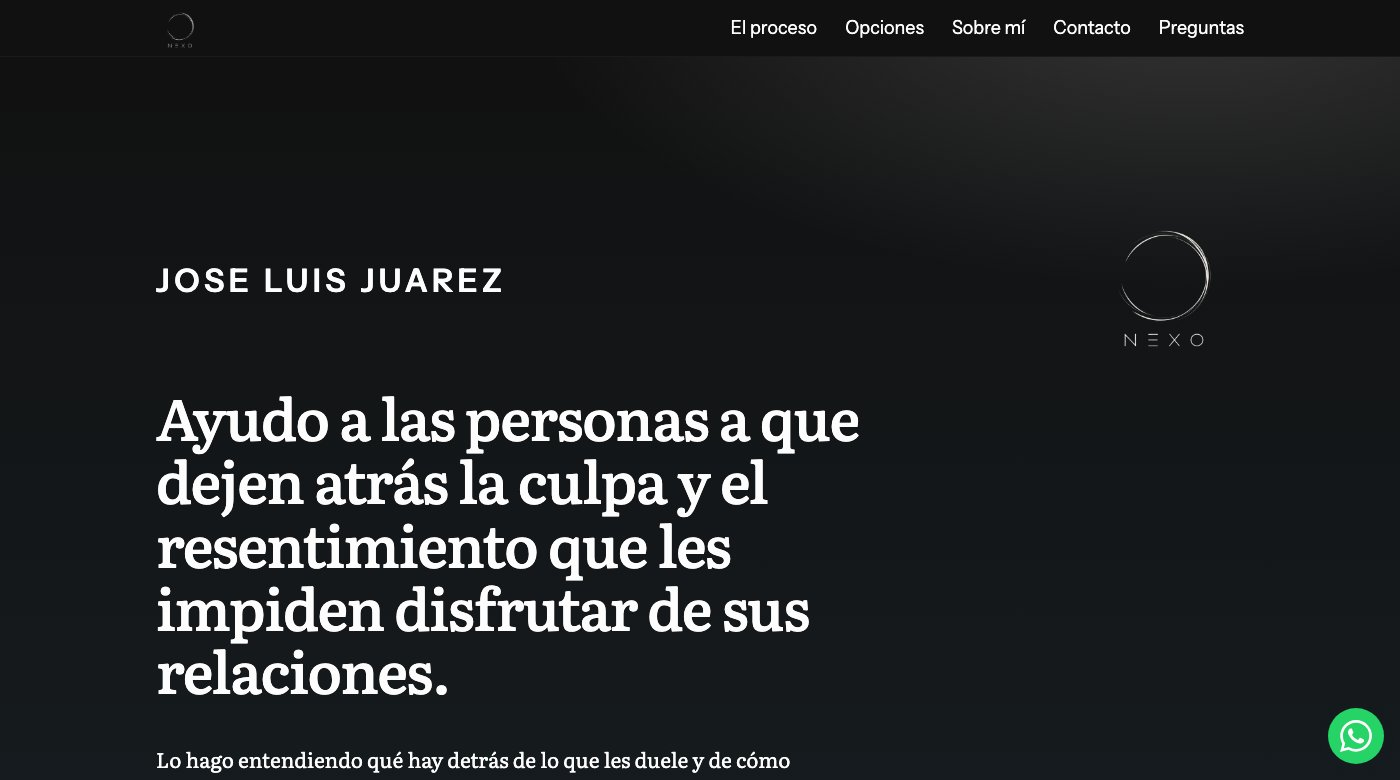
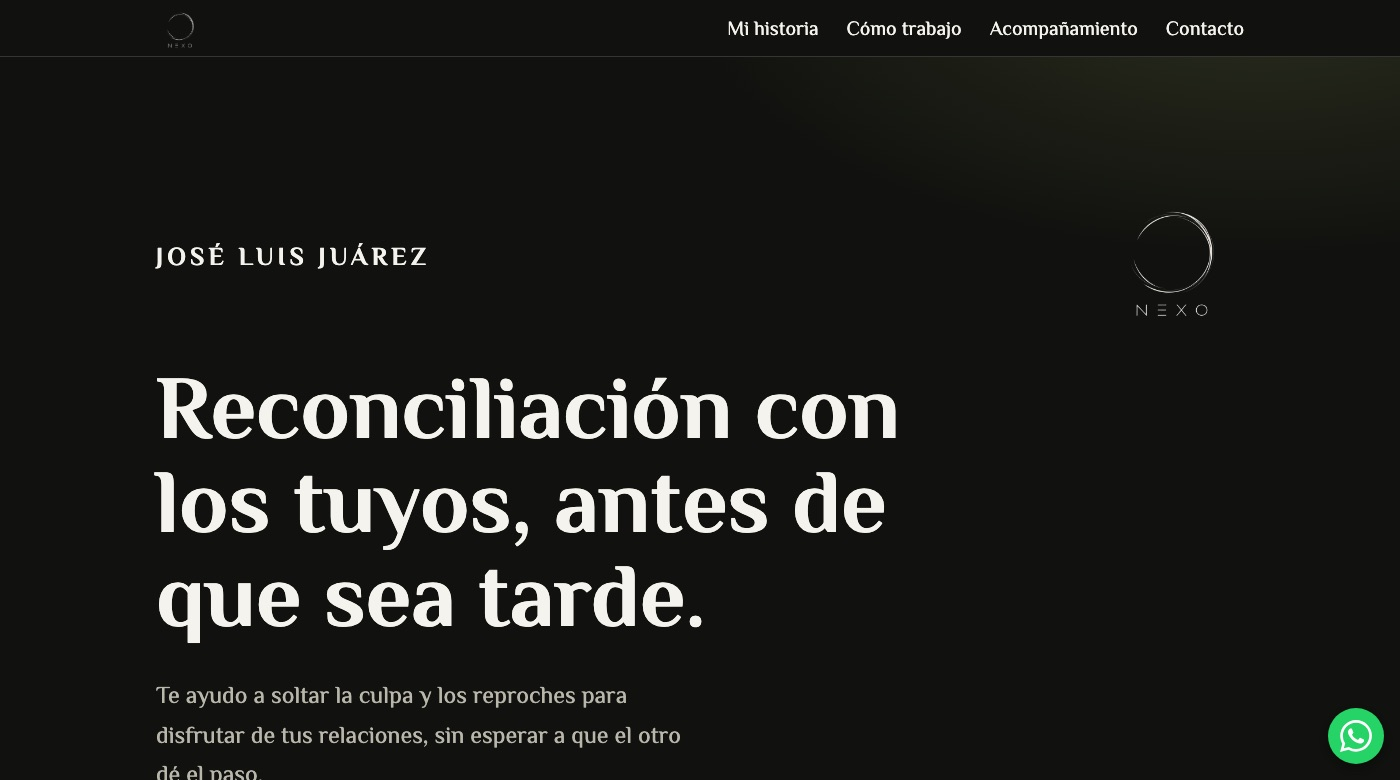
Web de NEXO: capturas nuevas (escritorio y móvil) y ficha al día con la web actual
La web pasó de tres opciones de precio a una sesión individual y quitó
las preguntas frecuentes: se corrigen esas frases, se añaden las
secciones nuevas y una fila de tres pantallas de móvil.

diff --git a/proyectos/web-nexo.html b/proyectos/web-nexo.html
@@ -105,8 +105,8 @@
       <h2>Qué es</h2>
       <ul class="feature-list">
         <li>Una página estática y rápida, pensada para leerse en el móvil</li>
-        <li>Tres opciones de sesiones con su precio y un botón de contacto directo por WhatsApp en cada una</li>
-        <li>Preguntas frecuentes, marcadas para que Google pueda mostrarlas</li>
+        <li>Una sesión individual con su precio claro y contacto directo por WhatsApp, sin formularios</li>
+        <li>El método en cuatro pasos, que se iluminan según se baja por la página</li>
         <li>Sin cookies, sin analítica y sin recursos de terceros</li>
       </ul>
     </section>
@@ -188,7 +188,7 @@
             </div>
             <div class="decision" data-id="whatsapp">
               <dt>WhatsApp</dt>
-              <dd>Cada botón abre un chat con un mensaje ya escrito según la opción elegida. No hay formularios, así que la web no guarda datos de nadie.</dd>
+              <dd>Cada botón abre un chat con un primer mensaje ya escrito. No hay formularios, así que la web no guarda datos de nadie.</dd>
             </div>
           </dl>
         </div>
@@ -200,7 +200,7 @@
       <ul class="feature-list">
         <li><strong>Astro</strong> genera HTML estático; el único JavaScript es la animación de los cuatro pasos, y la página funciona sin él</li>
         <li><strong>Sin terceros:</strong> tipografías alojadas en la propia web, sin cookies ni analítica, y por eso sin banner</li>
-        <li><strong>Buscadores:</strong> mapa del sitio, URL canónica, etiquetas para compartir y datos estructurados de las preguntas frecuentes</li>
+        <li><strong>Buscadores:</strong> mapa del sitio, URL canónica y etiquetas para compartir</li>
         <li><strong>Animaciones:</strong> se desactivan si el sistema operativo lo pide</li>
         <li><strong>Seguridad revisada antes de publicar:</strong> sin secretos en el repositorio, HTTPS obligatorio y cabeceras que limitan qué puede cargar la página</li>
       </ul>
@@ -209,25 +209,39 @@
     <section class="ficha-seccion">
       <h2>Capturas</h2>
       <figure class="shot shot-ancha">
-        <img src="../img/web-nexo/inicio.jpg" alt="Portada de la web de NEXO: el nombre de Jose Luis, el logotipo y el titular «Ayudo a las personas a que dejen atrás la culpa y el resentimiento que les impiden disfrutar de sus relaciones.» sobre un fondo oscuro." width="1400" height="780" loading="lazy" decoding="async" />
+        <img src="../img/web-nexo/inicio.jpg" alt="Portada de la web de NEXO: el nombre de Jose Luis, el logotipo y el titular «Reconciliación con los tuyos, antes de que sea tarde.» sobre un fondo oscuro." width="1400" height="780" loading="lazy" decoding="async" />
         <figcaption>La portada: un titular, una frase y una única acción.</figcaption>
       </figure>
       <figure class="shot shot-ancha">
-        <img src="../img/web-nexo/proceso.jpg" alt="Sección del proceso: el título «NEXO», el lema «El espacio donde todo conecta.» y cuatro pasos numerados (visión, comprensión, responsabilidad, integración), cada uno con un símbolo animado a la derecha." width="1400" height="1654" loading="lazy" decoding="async" />
-        <figcaption>Los cuatro pasos del proceso se iluminan según se baja por la página.</figcaption>
+        <img src="../img/web-nexo/intentado.jpg" alt="Sección «Has probado a cambiar las cosas, pero sigues en el mismo sitio.»: cinco tarjetas con lo que el visitante ya ha intentado (esperar a que el otro cambie, ceder para evitar discusiones, esforzarse por agradar, intentar pasar página, ir a terapia por un problema concreto) y una frase de cierre." width="1400" height="1393" loading="lazy" decoding="async" />
+        <figcaption>Antes de hablar del método, la web reconoce lo que el visitante ya ha probado.</figcaption>
       </figure>
       <figure class="shot shot-ancha">
-        <img src="../img/web-nexo/opciones.jpg" alt="Tres tarjetas de precios: sesión individual, proceso de cuatro sesiones y proceso de ocho sesiones, cada una con su lista de lo que incluye y su botón." width="1400" height="1554" loading="lazy" decoding="async" />
-        <figcaption>Tres opciones con precio claro, y debajo una salida para quien no sabe cuál elegir.</figcaption>
+        <img src="../img/web-nexo/proceso.jpg" alt="Sección del método: el título «NEXO», el lema «El espacio donde todo conecta.» y cuatro pasos numerados (visión, comprensión, responsabilidad, integración), cada uno con un símbolo animado a la derecha." width="1400" height="1515" loading="lazy" decoding="async" />
+        <figcaption>Los cuatro pasos del método se iluminan según se baja por la página.</figcaption>
       </figure>
       <figure class="shot shot-ancha">
-        <img src="../img/web-nexo/sobre-mi.jpg" alt="Sección «Sobre mí»: la historia de Jose Luis en un recuadro oscuro sobre una foto suya en blanco y negro." width="1400" height="979" loading="lazy" decoding="async" />
-        <figcaption>«Sobre mí» tiene como fondo dos vídeos en blanco y negro, atenuados para que el texto sea el protagonista.</figcaption>
+        <img src="../img/web-nexo/sesion.jpg" alt="Sección «Un espacio para ti.»: una tarjeta con la sesión individual de 70 € y 60 minutos, y lo que incluye, como el documento personalizado que se recibe después." width="1400" height="1099" loading="lazy" decoding="async" />
+        <figcaption>Una sola opción con precio claro, sin obligar a comprometerse a un número de sesiones.</figcaption>
       </figure>
-      <figure class="shot">
-        <img src="../img/web-nexo/movil.jpg" alt="Portada de la web en un móvil, con el menú plegado arriba a la derecha." width="780" height="1688" loading="lazy" decoding="async" />
-        <figcaption>En el móvil, que es desde donde se abrirá casi siempre, el menú se pliega.</figcaption>
+      <figure class="shot shot-ancha">
+        <img src="../img/web-nexo/historia.jpg" alt="Sección «Mi historia»: el titular «Aprendí a soltar la culpa y los reproches hacia mis padres después de perderlos.», cuatro párrafos y, a la derecha, un vídeo en blanco y negro." width="1400" height="843" loading="lazy" decoding="async" />
+        <figcaption>«Mi historia» acompaña el texto con un vídeo en blanco y negro.</figcaption>
       </figure>
+      <div class="shots">
+        <figure class="shot">
+          <img src="../img/web-nexo/movil.jpg" alt="Portada de la web en un móvil, con el menú plegado arriba a la derecha y el botón de WhatsApp abajo." width="780" height="1688" loading="lazy" decoding="async" />
+          <figcaption>En el móvil, que es desde donde se abrirá casi siempre, el menú se pliega.</figcaption>
+        </figure>
+        <figure class="shot">
+          <img src="../img/web-nexo/movil-proceso.jpg" alt="El método en un móvil: los pasos en una sola columna, con la línea que los une a la izquierda." width="780" height="1688" loading="lazy" decoding="async" />
+          <figcaption>Los pasos pasan a una columna y el símbolo queda detrás del texto.</figcaption>
+        </figure>
+        <figure class="shot">
+          <img src="../img/web-nexo/movil-sesion.jpg" alt="La sesión individual en un móvil: el precio arriba de la tarjeta y el botón de WhatsApp siempre a mano." width="780" height="1688" loading="lazy" decoding="async" />
+          <figcaption>El botón de WhatsApp sigue a la vista mientras se lee.</figcaption>
+        </figure>
+      </div>
     </section>
   </main>
 
